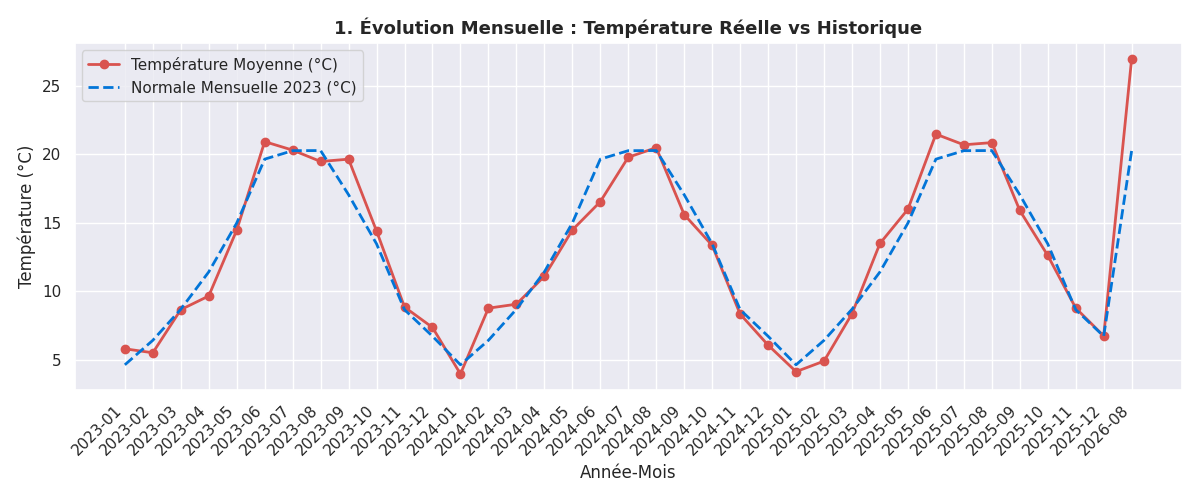
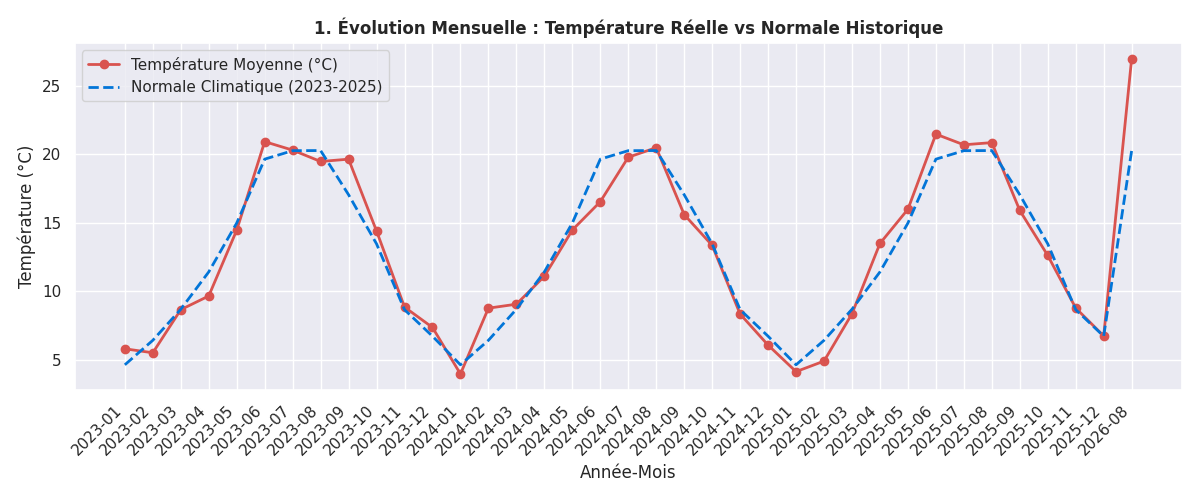
modifications des insights

Changed region(s): [[0.2775, 0.03, 0.8017, 0.09], [0.1233, 0.15, 0.3392, 0.21]]

diff --git a/scripts/generate_plots.py b/scripts/generate_plots.py
@@ -4,7 +4,7 @@ os.environ["HADOOP_USER_NAME"] = "root"
 import matplotlib.pyplot as plt
 import seaborn as sns
 from pyspark.sql import SparkSession
-from pyspark.sql.functions import avg, round as spark_round, min as spark_min, max as spark_max
+from pyspark.sql.functions import avg, sum as spark_sum, round as spark_round, date_format
 
 sns.set_theme(style="darkgrid")
 
@@ -17,12 +17,12 @@ spark = (
 )
 spark.sparkContext.setLogLevel("ERROR")
 
-print("--- GÉNÉRATION DES GRAPHIQUES GOLD (FORMAT AGRÉGÉ) ---")
+print("--- GÉNÉRATION DES GRAPHIQUES GOLD (6 INSIGHTS COMPLET) ---")
 
 output_dir = "/app/reports"
 os.makedirs(output_dir, exist_ok=True)
 
-# 2. Lecture et agrégation mensuelle directe via Spark
+# 2. Lecture Gold
 df_daily = spark.read.parquet("hdfs://namenode:9000/gold/meteo_daily_agg")
 
 df_monthly = (
@@ -31,21 +31,18 @@ df_monthly = (
         spark_round(avg("avg_temperature"), 2).alias("avg_temperature"),
         spark_round(avg("hist_avg_temp_month"), 2).alias("hist_avg_temp_month"),
         spark_round(avg("temp_anomaly"), 2).alias("temp_anomaly"),
-        spark_round(avg("total_precipitation"), 2).alias("total_precipitation")
+        spark_round(spark_sum("total_precipitation"), 2).alias("total_precipitation")
     )
     .orderBy("year_month")
 )
 
 pdf_monthly = df_monthly.toPandas()
 
-# ---------------------------------------------------------
-# Graphique 1 : Température Mensuelle Réelle vs Historique
-# ---------------------------------------------------------
+# Graphique 1 : Température Réelle vs Normale
 plt.figure(figsize=(12, 5))
 plt.plot(pdf_monthly["year_month"], pdf_monthly["avg_temperature"], label="Température Moyenne (°C)", color="#d9534f", linewidth=2, marker="o")
-plt.plot(pdf_monthly["year_month"], pdf_monthly["hist_avg_temp_month"], label="Normale Mensuelle 2023 (°C)", color="#0275d8", linestyle="--", linewidth=2)
-
-plt.title("1. Évolution Mensuelle : Température Réelle vs Historique", fontsize=13, fontweight="bold")
+plt.plot(pdf_monthly["year_month"], pdf_monthly["hist_avg_temp_month"], label="Normale Climatique (2023-2025)", color="#0275d8", linestyle="--", linewidth=2)
+plt.title("1. Évolution Mensuelle : Température Réelle vs Normale Historique", fontsize=12, fontweight="bold")
 plt.xlabel("Année-Mois")
 plt.ylabel("Température (°C)")
 plt.xticks(rotation=45, ha="right")
@@ -54,16 +51,12 @@ plt.tight_layout()
 plt.savefig(os.path.join(output_dir, "1_temp_vs_historique.png"))
 plt.close()
 
-# ---------------------------------------------------------
-# Graphique 2 : Anomalies Thermiques Mensuelles
-# ---------------------------------------------------------
+# Graphique 2 : Anomalies Thermiques
 plt.figure(figsize=(12, 5))
 colors = ["#d9534f" if x >= 0 else "#0275d8" for x in pdf_monthly["temp_anomaly"]]
-
 plt.bar(pdf_monthly["year_month"], pdf_monthly["temp_anomaly"], color=colors, width=0.6)
 plt.axhline(0, color="black", linestyle="-", linewidth=0.8)
-
-plt.title("2. Anomalies Thermiques Mensuelles (Écart vs Historique)", fontsize=13, fontweight="bold")
+plt.title("2. Anomalies Thermiques Mensuelles (Écart vs Normale 2023-2025)", fontsize=12, fontweight="bold")
 plt.xlabel("Année-Mois")
 plt.ylabel("Écart (°C)")
 plt.xticks(rotation=45, ha="right")
@@ -71,13 +64,10 @@ plt.tight_layout()
 plt.savefig(os.path.join(output_dir, "2_anomalies_thermiques.png"))
 plt.close()
 
-# ---------------------------------------------------------
-# Graphique 3 : Précipitations Mensuelles
-# ---------------------------------------------------------
+# Graphique 3 : Précipitations
 plt.figure(figsize=(12, 5))
 plt.bar(pdf_monthly["year_month"], pdf_monthly["total_precipitation"], color="#5bc0de", width=0.6)
-
-plt.title("3. Précipitations Mensuelles (mm)", fontsize=13, fontweight="bold")
+plt.title("3. Cumul Mensuel des Précipitations (mm)", fontsize=12, fontweight="bold")
 plt.xlabel("Année-Mois")
 plt.ylabel("Précipitations (mm)")
 plt.xticks(rotation=45, ha="right")
@@ -85,4 +75,51 @@ plt.tight_layout()
 plt.savefig(os.path.join(output_dir, "3_precipitations.png"))
 plt.close()
 
-print("[OK] Tous les graphiques ont été régénérés proprement !")
+# Graphique 4 : Matrice de Corrélation
+plt.figure(figsize=(7, 5))
+corr_matrix = pdf_monthly[["avg_temperature", "temp_anomaly", "total_precipitation"]].corr()
+sns.heatmap(corr_matrix, annot=True, cmap="coolwarm", vmin=-1, vmax=1, fmt=".2f")
+plt.title("4. Corrélation Température / Anomalies / Précipitations", fontsize=11, fontweight="bold")
+plt.tight_layout()
+plt.savefig(os.path.join(output_dir, "4_matrice_correlation.png"))
+plt.close()
+
+# Graphique 5 : Distribution des Températures par Année (Boxplot)
+pdf_daily_year = df_daily.withColumn("year", date_format("date", "yyyy")).select("year", "avg_temperature").toPandas()
+plt.figure(figsize=(9, 5))
+sns.boxplot(data=pdf_daily_year, x="year", y="avg_temperature", palette="Set2")
+plt.title("5. Distribution des Températures Journalières par Année", fontsize=12, fontweight="bold")
+plt.xlabel("Année")
+plt.ylabel("Température Moyenne (°C)")
+plt.tight_layout()
+plt.savefig(os.path.join(output_dir, "5_distribution_temperatures.png"))
+plt.close()
+
+# Graphique 6 : Alertes Météo par Année
+try:
+    df_alerts = spark.read.parquet("hdfs://namenode:9000/gold/meteo_alerts")
+    df_alerts_summary = (
+        df_alerts.withColumn("year", date_format("date", "yyyy"))
+        .groupBy("year")
+        .agg(
+            spark_sum("alert_gel").alias("Gel (<0°C)"),
+            spark_sum("alert_canicule").alias("Canicule (>30°C)"),
+            spark_sum("alert_pluie_forte").alias("Pluie Forte (>10mm)")
+        )
+        .orderBy("year")
+    )
+    pdf_alerts = df_alerts_summary.toPandas().set_index("year")
+    fig, ax = plt.subplots(figsize=(9, 5))
+    pdf_alerts.plot(kind="bar", ax=ax, colormap="Accent", width=0.6)
+    plt.title("6. Nombre de Jours d'Alertes Météo par Année", fontsize=12, fontweight="bold")
+    plt.xlabel("Année")
+    plt.ylabel("Nombre de Jours")
+    plt.xticks(rotation=0)
+    plt.legend(title="Type d'Alerte")
+    plt.tight_layout()
+    plt.savefig(os.path.join(output_dir, "6_alertes_meteo.png"))
+    plt.close()
+except Exception as e:
+    print(f"Information alertes non générée : {e}")
+
+print("[OK] Tous les 6 graphiques ont été générés dans /app/reports !")
